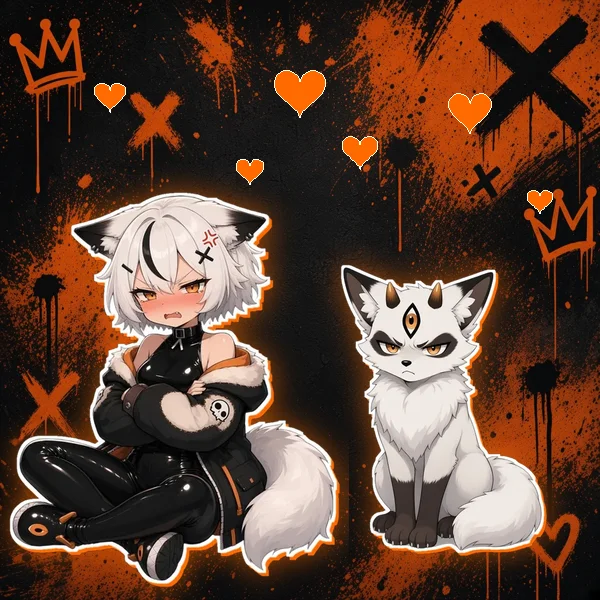
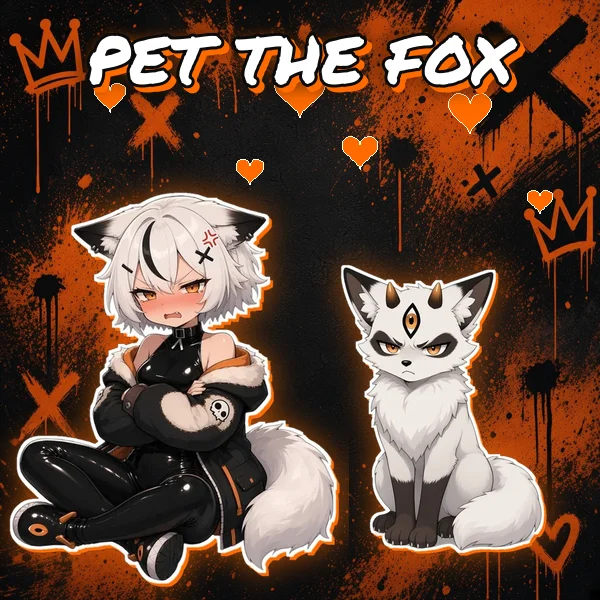
Add PET THE FOX title to Pet the Fox card art

Changed region(s): [[0.12, 0.03, 0.9, 0.18]]

diff --git a/apps.html b/apps.html
@@ -80,7 +80,7 @@ details.note summary{cursor:pointer;font-weight:700;color:var(--o)}details.note 
 <article class="app"><div class="pic"><img src="img/app-8ball.webp?v=2" alt="Nines grinning and holding a glowing Magic 8 Ball"></div>
 <div><h3>Magic 8 Ball</h3><p>A magic 8 ball shaken by Nines. Ask the fox a question and she'll shake out your answer.</p>
 <a class="btn o" href="8ball/">&#9654; Open</a><p class="note">Runs in your browser, on phone or desktop.</p></div></article>
-<article class="app"><div class="pic"><img src="img/app-pet.webp?v=1" alt="Nines and Roger being petted, surrounded by orange hearts" loading="lazy"></div>
+<article class="app"><div class="pic"><img src="img/app-pet.webp?v=2" alt="Nines and Roger being petted, surrounded by orange hearts" loading="lazy"></div>
 <div><h3>Pet the Fox</h3><p>Pet Nines and Roger. She loves it and will never admit it. He hates it. Every pet from everyone adds to their global counters.</p>
 <a class="btn o" href="pet/">&#9654; Open</a><p class="note">Runs in your browser, on phone or desktop.</p></div></article>
 <article class="app"><div class="pic"><img src="img/app-creature.webp?v=1" alt="Five dubious creatures: Lurker, Snack, Chaos, Sleepy and Hype" loading="lazy"></div>
